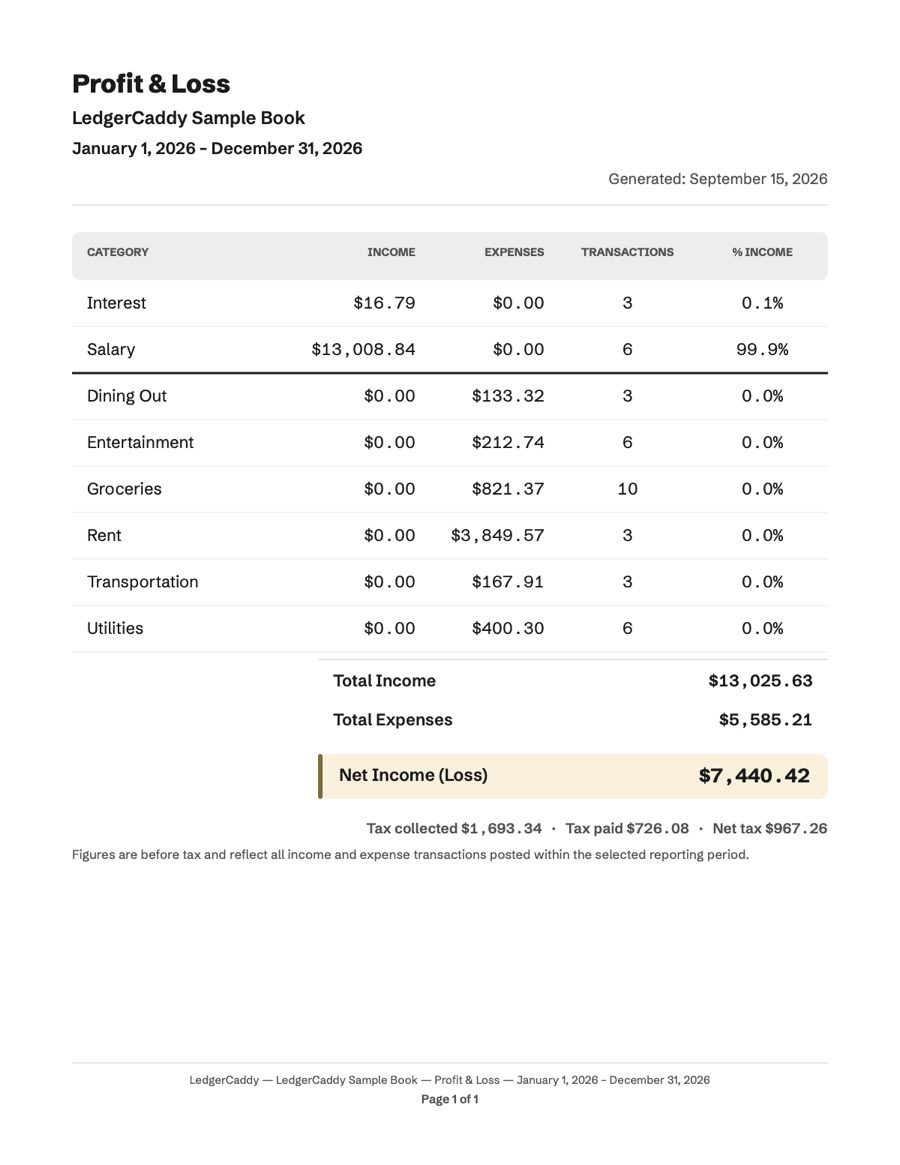
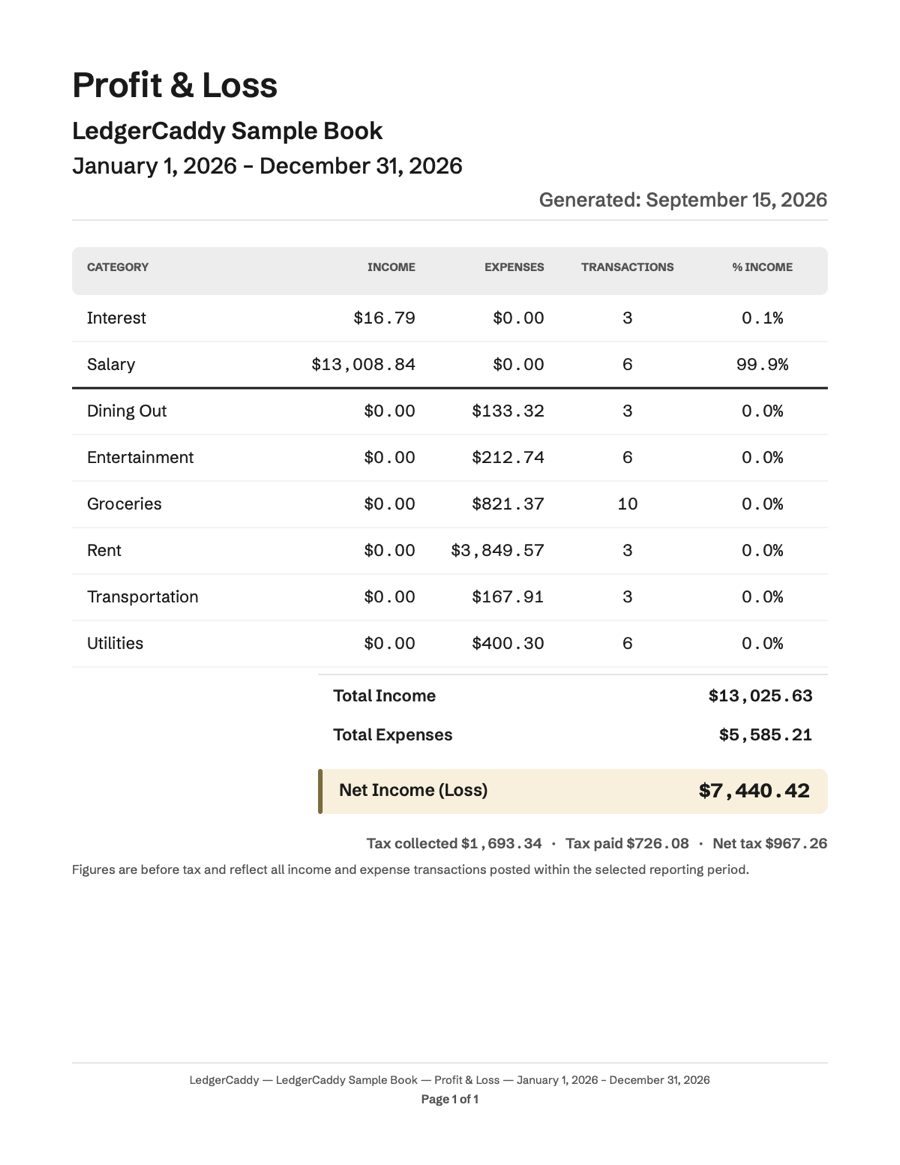
Licence copy: Canadian spelling and offline key checking
Use "licence" for the noun site-wide to match the app. Rewrite the
privacy and support passages that described an online check against
the Lemon Squeezy licence service; keys are verified on the Mac and the
app never connects. Include the re-captured Profit & Loss and Period
Pack report images.

diff --git a/support.html b/support.html
@@ -3,9 +3,9 @@
 <head>
 <meta charset="utf-8">
 <meta name="viewport" content="width=device-width, initial-scale=1">
-<title>Support: LedgerCaddy</title><link rel="icon" href="images/favicon.svg" type="image/svg+xml"><link rel="icon" href="images/favicon-32.png" sizes="32x32" type="image/png"><link rel="apple-touch-icon" href="images/apple-touch-icon.png"><meta name="theme-color" content="#F7F5EF"><link rel="canonical" href="https://snowy3939.github.io/ledgercaddy-site/support.html"><meta property="og:type" content="website"><meta property="og:site_name" content="LedgerCaddy"><meta property="og:title" content="Support: LedgerCaddy"><meta property="og:description" content="LedgerCaddy support: how to get help, system requirements, the free trial, your license on two Macs, moving to a new Mac, backups, and answers to common questions."><meta property="og:url" content="https://snowy3939.github.io/ledgercaddy-site/support.html"><meta property="og:image" content="https://snowy3939.github.io/ledgercaddy-site/images/hero.jpg"><meta property="og:image:width" content="1280"><meta property="og:image:height" content="858"><meta name="twitter:card" content="summary_large_image">
+<title>Support: LedgerCaddy</title><link rel="icon" href="images/favicon.svg" type="image/svg+xml"><link rel="icon" href="images/favicon-32.png" sizes="32x32" type="image/png"><link rel="apple-touch-icon" href="images/apple-touch-icon.png"><meta name="theme-color" content="#F7F5EF"><link rel="canonical" href="https://snowy3939.github.io/ledgercaddy-site/support.html"><meta property="og:type" content="website"><meta property="og:site_name" content="LedgerCaddy"><meta property="og:title" content="Support: LedgerCaddy"><meta property="og:description" content="LedgerCaddy support: how to get help, system requirements, the free trial, your licence on two Macs, moving to a new Mac, backups, and answers to common questions."><meta property="og:url" content="https://snowy3939.github.io/ledgercaddy-site/support.html"><meta property="og:image" content="https://snowy3939.github.io/ledgercaddy-site/images/hero.jpg"><meta property="og:image:width" content="1280"><meta property="og:image:height" content="858"><meta name="twitter:card" content="summary_large_image">
 <meta name="robots" content="noindex, nofollow">
-<meta name="description" content="LedgerCaddy support: how to get help, system requirements, the free trial, your license on two Macs, moving to a new Mac, backups, and answers to common questions.">
+<meta name="description" content="LedgerCaddy support: how to get help, system requirements, the free trial, your licence on two Macs, moving to a new Mac, backups, and answers to common questions.">
 <link rel="preconnect" href="https://fonts.googleapis.com">
 <link rel="preconnect" href="https://fonts.gstatic.com" crossorigin>
 <link href="https://fonts.googleapis.com/css2?family=Schibsted+Grotesk:wght@500..900&display=swap" rel="stylesheet">
@@ -35,9 +35,9 @@
 <main>
   <div class="wrap">
     <div class="eyebrow">Support</div>
-    <h1>Help, requirements, and how the license works.</h1>
+    <h1>Help, requirements, and how the licence works.</h1>
     <p class="lead">Everything you might want to know before you buy, and the first places to look afterwards.</p>
-    <div class="toc"><a href="#help">Getting help</a><a href="#requirements">System requirements</a><a href="#trial">The free trial</a><a href="#license">Your license</a><a href="#data">Your data and backups</a><a href="#faq">Questions</a></div>
+    <div class="toc"><a href="#help">Getting help</a><a href="#requirements">System requirements</a><a href="#trial">The free trial</a><a href="#licence">Your licence</a><a href="#data">Your data and backups</a><a href="#faq">Questions</a></div>
 
     <h2 id="help">Getting help</h2>
     <p>LedgerCaddy is made and supported by a small team, which means the person who answers your email is the person who built the app.</p>
@@ -54,17 +54,17 @@
       <div><small>Download</small><b>About 60 MB</b></div>
       <div><small>Internet</small><b>Not required to use the app</b></div>
     </div>
-    <p>LedgerCaddy is a native Mac app, not a web page in a window. It runs without an internet connection. The only time it connects is briefly when you enter a license key, and once in a while afterwards to confirm the key is still valid. If you are offline at the time, the app keeps working.</p>
+    <p>LedgerCaddy is a native Mac app, not a web page in a window. It runs entirely without an internet connection. Entering a licence key is checked on your Mac; the app never phones home.</p>
     <p>Your books are small. A year of bookkeeping for a typical small business is a file of a few megabytes, plus any receipts you attach.</p>
 
     <h2 id="trial">The free trial</h2>
     <p>The trial starts the first time you open LedgerCaddy on a Mac and lasts <strong>14 days</strong>. It includes every feature: real books, real reports, import, attachments, backups, the Period Pack. There is nothing to sign up for and no card to enter.</p>
-    <p><strong>When the trial ends,</strong> your books are not locked away. You can still open them, browse every workspace, search, back up, and export to CSV. Adding transactions and running reports asks for a license key. Buy a license, enter the key, and you carry on exactly where you left off; nothing is lost and nothing needs re-entering.</p>
+    <p><strong>When the trial ends,</strong> your books are not locked away. You can still open them, browse every workspace, search, back up, and export to CSV. Adding transactions and running reports asks for a licence key. Buy a licence, enter the key, and you carry on exactly where you left off; nothing is lost and nothing needs re-entering.</p>
     <p>The Sample Book stays fully usable after the trial, so you can keep exploring.</p>
 
-    <h2 id="license">Your license</h2>
+    <h2 id="licence">Your licence</h2>
     <ul>
-      <li><strong>One purchase, up to two Macs.</strong> A license is for one person and can be active on two Macs you own, for example a desktop and a laptop.</li>
+      <li><strong>One purchase, up to two Macs.</strong> A licence is for one person and can be active on two Macs you own, for example a desktop and a laptop.</li>
       <li><strong>Moving to a new Mac.</strong> Open Settings on the old Mac and choose Deactivate this Mac, then enter your key on the new one. If the old Mac is gone, email us and we will free the slot.</li>
       <li><strong>Updates.</strong> Your purchase includes every release for 12 months. After that, an optional $20 USD per year renewal keeps new releases coming. If you skip it, the version you have keeps working, forever.</li>
       <li><strong>Lost your key?</strong> Email us from the address you bought with and we will resend it.</li>
@@ -73,13 +73,13 @@
 
     <h2 id="data">Your data and backups</h2>
     <p>Each book is one file on your Mac, in a standard SQLite format. Nothing is uploaded and there is no account. That also means <strong>backing up is your responsibility</strong>, and LedgerCaddy makes it easy: automatic backups run on their own, Back Up Now is one click, and Backup &amp; Restore in the sidebar restores any backup. Keep at least one copy somewhere other than the Mac itself, such as an external drive or a folder that syncs to a service you already use.</p>
-    <p>To hand your books to someone else, an accountant or the next treasurer, give them the book file and a copy of the app. They can open it with their own license or during a trial.</p>
+    <p>To hand your books to someone else, an accountant or the next treasurer, give them the book file and a copy of the app. They can open it with their own licence or during a trial.</p>
 
     <h2 id="faq">Questions</h2>
     <div class="faq">
       <details><summary>Is it really not a subscription?</summary><p>Really. $50 USD buys LedgerCaddy outright with 12 months of updates. After that, $20 USD a year is optional. Skip it and the version you have keeps working forever.</p></details>
       <details><summary>Can I bring in my existing records?</summary><p>Yes. Import a CSV export from your spreadsheet or bank, and LedgerCaddy walks you through matching accounts and categories.</p></details>
-      <details><summary>Can my accountant open my books?</summary><p>Yes, with a copy of the app and either their own license or the free trial. Most accountants will only need the Period Pack PDF and a CSV export, which every report produces.</p></details>
+      <details><summary>Can my accountant open my books?</summary><p>Yes, with a copy of the app and either their own licence or the free trial. Most accountants will only need the Period Pack PDF and a CSV export, which every report produces.</p></details>
       <details><summary>Can I keep separate books for separate things?</summary><p>Yes. A book is one file, so a landlord can keep one per property, a treasurer one per club, a consultant one for the practice and one for personal records. Manage Books in the sidebar switches between them.</p></details>
       <details><summary>Does it handle sales tax?</summary><p>Each book has a tax label and a default rate, for example HST at 13 percent. Entering a total works out the tax and the pre-tax amount for you, and the Tax Summary report totals it for any period.</p></details>
       <details><summary>What if LedgerCaddy stops being developed?</summary><p>Your copy keeps working, your books are a standard SQLite file you can open with free tools, and every report exports to CSV. You are never dependent on us to reach your own records.</p></details>

diff --git a/terms.html b/terms.html
@@ -3,9 +3,9 @@
 <head>
 <meta charset="utf-8">
 <meta name="viewport" content="width=device-width, initial-scale=1">
-<title>Terms of Use: LedgerCaddy</title><link rel="icon" href="images/favicon.svg" type="image/svg+xml"><link rel="icon" href="images/favicon-32.png" sizes="32x32" type="image/png"><link rel="apple-touch-icon" href="images/apple-touch-icon.png"><meta name="theme-color" content="#F7F5EF"><link rel="canonical" href="https://snowy3939.github.io/ledgercaddy-site/terms.html"><meta property="og:type" content="website"><meta property="og:site_name" content="LedgerCaddy"><meta property="og:title" content="Terms of Use: LedgerCaddy"><meta property="og:description" content="LedgerCaddy terms of use: a perpetual license for up to two Macs, 12 months of updates included, optional maintenance after that."><meta property="og:url" content="https://snowy3939.github.io/ledgercaddy-site/terms.html"><meta property="og:image" content="https://snowy3939.github.io/ledgercaddy-site/images/hero.jpg"><meta property="og:image:width" content="1280"><meta property="og:image:height" content="858"><meta name="twitter:card" content="summary_large_image">
+<title>Terms of Use: LedgerCaddy</title><link rel="icon" href="images/favicon.svg" type="image/svg+xml"><link rel="icon" href="images/favicon-32.png" sizes="32x32" type="image/png"><link rel="apple-touch-icon" href="images/apple-touch-icon.png"><meta name="theme-color" content="#F7F5EF"><link rel="canonical" href="https://snowy3939.github.io/ledgercaddy-site/terms.html"><meta property="og:type" content="website"><meta property="og:site_name" content="LedgerCaddy"><meta property="og:title" content="Terms of Use: LedgerCaddy"><meta property="og:description" content="LedgerCaddy terms of use: a perpetual licence for up to two Macs, 12 months of updates included, optional maintenance after that."><meta property="og:url" content="https://snowy3939.github.io/ledgercaddy-site/terms.html"><meta property="og:image" content="https://snowy3939.github.io/ledgercaddy-site/images/hero.jpg"><meta property="og:image:width" content="1280"><meta property="og:image:height" content="858"><meta name="twitter:card" content="summary_large_image">
 <meta name="robots" content="noindex, nofollow">
-<meta name="description" content="LedgerCaddy terms of use: a perpetual license for up to two Macs, 12 months of updates included, optional maintenance after that.">
+<meta name="description" content="LedgerCaddy terms of use: a perpetual licence for up to two Macs, 12 months of updates included, optional maintenance after that.">
 <link rel="preconnect" href="https://fonts.googleapis.com">
 <link rel="preconnect" href="https://fonts.gstatic.com" crossorigin>
 <link href="https://fonts.googleapis.com/css2?family=Schibsted+Grotesk:wght@500..900&display=swap" rel="stylesheet">
@@ -39,16 +39,16 @@
     <p>LedgerCaddy is made and published by DART Management Inc., a company incorporated in Canada ("we", "us"). Purchases are processed by Lemon Squeezy, which acts as the merchant of record and is the seller of record for tax and payment purposes.</p>
 
     <h2>2. Free trial</h2>
-    <p>You may use LedgerCaddy free of charge for 14 days from the first time you open it on a Mac. The trial includes every feature. When it ends, you can still open, browse, back up and export your books, but adding entries and running reports requires a license. You do not need to give us any payment details to use the trial.</p>
+    <p>You may use LedgerCaddy free of charge for 14 days from the first time you open it on a Mac. The trial includes every feature. When it ends, you can still open, browse, back up and export your books, but adding entries and running reports requires a licence. You do not need to give us any payment details to use the trial.</p>
 
-    <h2>3. Your license</h2>
-    <p>When you buy LedgerCaddy you receive a license key. That key gives you a <strong>perpetual, non-exclusive, non-transferable license</strong> to install and use LedgerCaddy on <strong>up to two Macs</strong> that you own or control, for your personal or business bookkeeping. The license is for one person; each additional person who uses LedgerCaddy needs their own license. You may move the license between Macs by deactivating one Mac in the app's settings.</p>
-    <p>You may not resell, rent, sublicense or share your license key, reverse-engineer the app, remove its licensing, or use it to provide a bookkeeping service to third parties on their behalf without their own licenses.</p>
+    <h2>3. Your licence</h2>
+    <p>When you buy LedgerCaddy you receive a licence key. That key gives you a <strong>perpetual, non-exclusive, non-transferable licence</strong> to install and use LedgerCaddy on <strong>up to two Macs</strong> that you own or control, for your personal or business bookkeeping. The licence is for one person; each additional person who uses LedgerCaddy needs their own licence. You may move the licence between Macs by deactivating one Mac in the app's settings.</p>
+    <p>You may not resell, rent, sublicense or share your licence key, reverse-engineer the app, remove its licensing, or use it to provide a bookkeeping service to third parties on their behalf without their own licences.</p>
 
     <h2>4. Updates and maintenance</h2>
     <p>Prices are stated in US dollars. Lemon Squeezy may show the equivalent in your local currency at checkout.</p>
     <p>Your purchase includes every LedgerCaddy release published in the <strong>12 months following your purchase date</strong>. After that, you may buy an optional annual maintenance renewal, which extends your updates window by 12 months from the later of your current window's end and the date of renewal.</p>
-    <p>If you choose not to renew, <strong>your license does not expire</strong>. Every version released within your updates window continues to work indefinitely. Versions released after your window ends will ask you to renew before they can be used; the version you already have is unaffected.</p>
+    <p>If you choose not to renew, <strong>your licence does not expire</strong>. Every version released within your updates window continues to work indefinitely. Versions released after your window ends will ask you to renew before they can be used; the version you already have is unaffected.</p>
 
     <h2>5. Your data</h2>
     <p>Your books are files on your Mac. They belong to you. We do not receive, store or access them, and nothing in these terms gives us any right to them. You are responsible for keeping backups; LedgerCaddy includes automatic backups to help, but a backup that lives on the same disk as the original is not a substitute for your own backup practice.</p>
@@ -63,10 +63,10 @@
     <p>We work hard to make LedgerCaddy reliable, and it is tested before every release. Even so, LedgerCaddy is provided <strong>"as is"</strong> and, to the fullest extent permitted by law, without warranties of any kind, express or implied, including fitness for a particular purpose. To the fullest extent permitted by law, our total liability for any claim connected with LedgerCaddy is limited to the amount you paid for it, and we are not liable for indirect, incidental or consequential loss, including lost data, lost profits or the cost of professional services. Some jurisdictions do not allow these limitations, in which case they apply to the extent permitted.</p>
 
     <h2>9. Termination</h2>
-    <p>Your license ends only if you materially breach these terms, for example by sharing your key. Otherwise it lasts for as long as you wish to use LedgerCaddy.</p>
+    <p>Your licence ends only if you materially breach these terms, for example by sharing your key. Otherwise it lasts for as long as you wish to use LedgerCaddy.</p>
 
     <h2>10. Changes to these terms</h2>
-    <p>We may update these terms for future purchases. The terms that apply to your purchase are the ones published on the date you bought. We will not change the perpetual nature of a license you have already bought.</p>
+    <p>We may update these terms for future purchases. The terms that apply to your purchase are the ones published on the date you bought. We will not change the perpetual nature of a licence you have already bought.</p>
 
     <h2>11. Governing law</h2>
     <p>These terms are governed by the laws of Canada and of the province of Ontario, and any dispute will be resolved in the courts there.</p>

diff --git a/privacy.html b/privacy.html
@@ -30,7 +30,7 @@
       <ul>
         <li>Your books, transactions, attachments and backups stay on your Mac. We never see them.</li>
         <li>The app has no account, no sign-in, no analytics and no advertising.</li>
-        <li>The only time the app talks to the internet is to check a license key you entered.</li>
+        <li>The app never talks to the internet. Licence keys are checked on your Mac.</li>
         <li>Purchases are handled by Lemon Squeezy, our payment provider and the merchant of record.</li>
         <li>Product news arrives only if you opt in at checkout, and every message has an unsubscribe link.</li>
       </ul>
@@ -40,14 +40,14 @@
     <p><strong>Your financial data.</strong> Every book you create is a single file stored where you choose on your Mac. Transactions, accounts, payees, categories, attachments, reports and automatic backups are all written to your Mac and nowhere else. LedgerCaddy does not upload, sync or transmit your books, and we have no way to access them.</p>
     <p><strong>No accounts, no tracking.</strong> LedgerCaddy does not require an account and does not include analytics, crash reporting, advertising or any third-party tracking code.</p>
     <p><strong>Free trial.</strong> To run the 14-day trial the app stores a small record of the date you first opened it on your Mac. That record never leaves your Mac and contains no personal information.</p>
-    <p><strong>License activation.</strong> When you enter a license key, the app sends the key and the name of your Mac to Lemon Squeezy's license service to confirm it is valid and to count the activation against your license (up to two Macs). The app repeats this check occasionally in the background. No financial data or book contents are ever sent. If the check cannot be completed because you are offline, the app keeps working.</p>
+    <p><strong>Licence activation.</strong> When you enter a licence key, LedgerCaddy checks it on your Mac using a built-in public key. Nothing is sent anywhere: not the key, not your Mac's name, and never your books. There is no online check, then or later, so the app works the same with or without an internet connection.</p>
     <p><strong>Updates.</strong> LedgerCaddy does not check for updates automatically. New versions are downloaded from this website when you choose to.</p>
 
     <h2>Purchases</h2>
-    <p>Purchases of LedgerCaddy are processed by Lemon Squeezy, which acts as the merchant of record and handles payment, taxes, receipts, license keys and refunds. When you buy, you provide your email address and payment details to them, not to us. <a href="https://www.lemonsqueezy.com/privacy">Lemon Squeezy's privacy policy</a> governs that information. We receive your email address and order details so we can deliver your license and provide support.</p>
+    <p>Purchases of LedgerCaddy are processed by Lemon Squeezy, which acts as the merchant of record and handles payment, taxes, receipts, licence keys and refunds. When you buy, you provide your email address and payment details to them, not to us. <a href="https://www.lemonsqueezy.com/privacy">Lemon Squeezy's privacy policy</a> governs that information. We receive your email address and order details so we can deliver your licence and provide support.</p>
 
     <h2>Product news and offers</h2>
-    <p>If you tick the box at checkout, LedgerCaddy will send you occasional email about updates to the app, related products from the same company, and offers. These messages come from LedgerCaddy and never from anyone else. Every message includes an unsubscribe link, and one click ends them. We do not sell, rent or share your address, and we never send this email to anyone who did not opt in. Leaving the box unticked changes nothing about your purchase, your license or your support.</p>
+    <p>If you tick the box at checkout, LedgerCaddy will send you occasional email about updates to the app, related products from the same company, and offers. These messages come from LedgerCaddy and never from anyone else. Every message includes an unsubscribe link, and one click ends them. We do not sell, rent or share your address, and we never send this email to anyone who did not opt in. Leaving the box unticked changes nothing about your purchase, your licence or your support.</p>
 
     <h2>This website</h2>
     <p>This site is a static page with no cookies, forms or analytics of our own. It is hosted on GitHub Pages, which may record standard server logs such as IP address and browser type. Fonts are loaded from Google Fonts, which may also log the request. No other third-party services are used.</p>

diff --git a/refunds.html b/refunds.html
@@ -36,7 +36,7 @@
 
     <h2>30-day refund</h2>
     <p>If you are not happy with LedgerCaddy for any reason, email <a href="mailto:billing@ledgercaddy.com">billing@ledgercaddy.com</a> within 30 days of your purchase with the email address you bought with. We will refund the full purchase price to your original payment method. Refunds are issued by Lemon Squeezy, the merchant of record, and usually appear within 5 to 10 business days depending on your bank.</p>
-    <p>Once a refund is issued your license key is deactivated. Your books remain on your Mac and can still be opened, browsed, backed up and exported, so you are never locked away from your own records.</p>
+    <p>Once a refund is issued your licence key is deactivated. Your books remain on your Mac and can still be opened, browsed, backed up and exported, so you are never locked away from your own records.</p>
 
     <h2>Maintenance renewals</h2>
     <p>Annual maintenance renewals can be refunded within 30 days of the renewal date, provided you have not yet installed a release that the renewal unlocked. A refunded renewal returns your updates window to what it was before.</p>

diff --git a/index.html b/index.html
@@ -261,7 +261,7 @@ footer{background:var(--card);border-top:1px solid var(--border);padding:40px 0}
 <details><summary>Will my accountant be happy?</summary><p>That is the point. The Period Pack assembles the year-end reports accountants ask for into one PDF, and every report also exports to CSV.</p></details>
 <details><summary>Which Macs does it run on?</summary><p>Apple silicon and Intel, macOS 11 or later. It is a native Mac app, not a web page in a window.</p></details>
 </div>
-<p class="sub" style="margin-top:20px">More answers, system requirements and how the license works are on the <a href="support.html" style="color:var(--brand);font-weight:800">Support page</a>.</p></div></section>
+<p class="sub" style="margin-top:20px">More answers, system requirements and how the licence works are on the <a href="support.html" style="color:var(--brand);font-weight:800">Support page</a>.</p></div></section>
 
 <section class="close"><div class="wrap"><div class="eyebrow">Ready?</div><h2>Great records, from day one.</h2>
 <p class="lead" style="margin-left:auto;margin-right:auto">14 days free, every feature, no credit card.</p>
